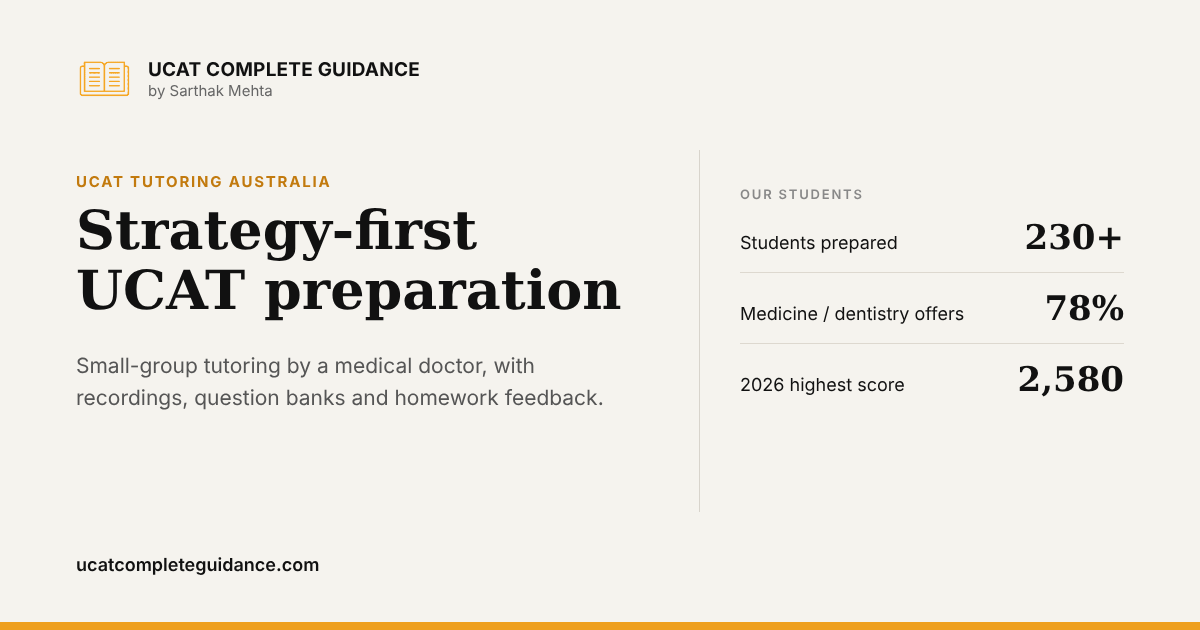
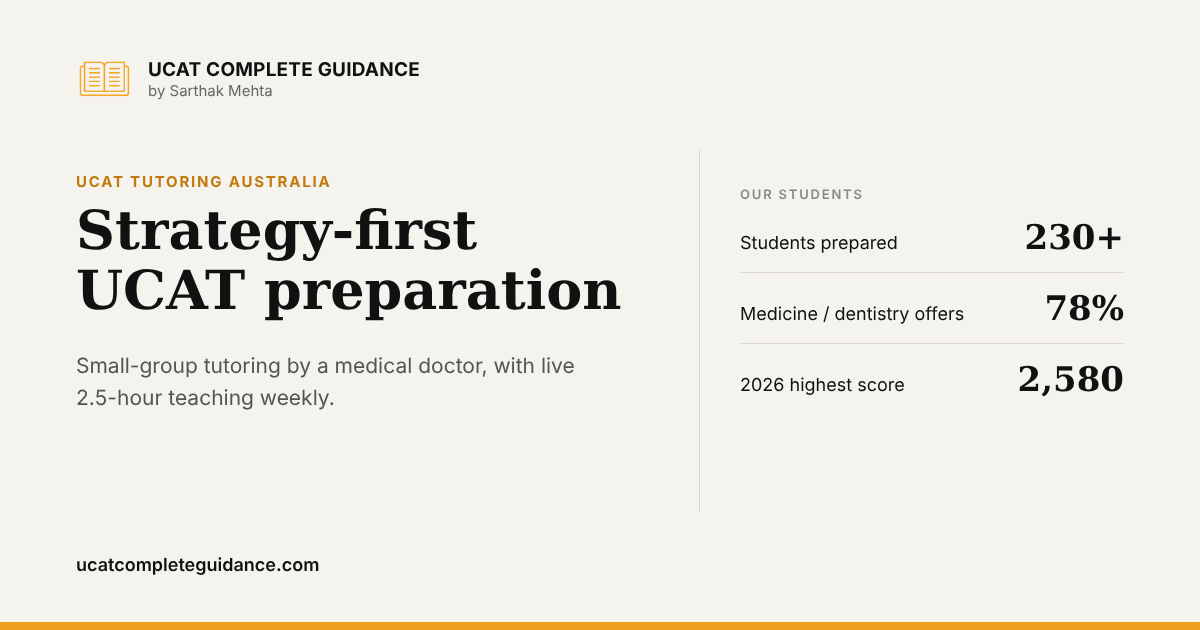
Add files via upload

Changed region(s): [[0.0617, 0.573, 0.4933, 0.6635]]

diff --git a/verbal-reasoning-tips/index.html b/verbal-reasoning-tips/index.html
@@ -3,14 +3,14 @@
 <head>
 <meta charset="UTF-8">
 <meta name="viewport" content="width=device-width, initial-scale=1.0">
-<title>UCAT Verbal Reasoning Tips: Why Most Students Lose Marks | UCAT Complete Guidance</title>
+<title>UCAT Verbal Reasoning Tips: Top 3 Traps to Fix</title>
 <link rel="canonical" href="https://ucatcompleteguidance.com/verbal-reasoning-tips/">
 <meta name="robots" content="index, follow, max-snippet:-1, max-image-preview:large">
 <meta property="og:type" content="article">
 <meta property="og:site_name" content="UCAT Complete Guidance">
 <meta property="og:locale" content="en_AU">
-<meta property="og:title" content="UCAT Verbal Reasoning Tips: Why Most Students Lose Marks | UCAT Complete Guidance">
-<meta property="og:description" content="You&#x27;ve done the practice. You know the format. VR is still your lowest score. Here&#x27;s the part most resources don&#x27;t cover.">
+<meta property="og:title" content="UCAT Verbal Reasoning Tips: Top 3 Traps to Fix">
+<meta property="og:description" content="The three Verbal Reasoning traps that cost the most marks in the 2026 UCAT, from 40+ students who sat it, and how to fix each one.">
 <meta property="og:url" content="https://ucatcompleteguidance.com/verbal-reasoning-tips/">
 <meta property="og:image" content="https://ucatcompleteguidance.com/og/verbal-reasoning-tips.png">
 <meta property="og:image:secure_url" content="https://ucatcompleteguidance.com/og/verbal-reasoning-tips.png">
@@ -28,11 +28,11 @@
 <link rel="icon" type="image/png" sizes="192x192" href="/icon-192.png">
 <link rel="apple-touch-icon" href="/apple-touch-icon.png">
 <link rel="manifest" href="/site.webmanifest">
-<meta name="twitter:title" content="UCAT Verbal Reasoning Tips: Why Most Students Lose Marks | UCAT Complete Guidance">
-<meta name="twitter:description" content="You&#x27;ve done the practice. You know the format. VR is still your lowest score. Here&#x27;s the part most resources don&#x27;t cover.">
+<meta name="twitter:title" content="UCAT Verbal Reasoning Tips: Top 3 Traps to Fix">
+<meta name="twitter:description" content="The three Verbal Reasoning traps that cost the most marks in the 2026 UCAT, from 40+ students who sat it, and how to fix each one.">
 <link rel="alternate" type="text/plain" title="LLM summary" href="/llms.txt">
 
-<meta name="description" content="You&#x27;ve done the practice. You know the format. VR is still your lowest score. Here&#x27;s the part most resources don&#x27;t cover.">
+<meta name="description" content="The three Verbal Reasoning traps that cost the most marks in the 2026 UCAT, from 40+ students who sat it, and how to fix each one.">
 <meta name="keywords" content="UCAT tutoring Australia, UCAT preparation, UCAT strategy, UCAT course, medicine admissions Australia">
 <link rel="preconnect" href="https://fonts.googleapis.com">
 <link rel="preconnect" href="https://fonts.gstatic.com" crossorigin>
@@ -1684,7 +1684,7 @@ body.subpage-active:has(.article-panel.active) .diag-float { display: block; }
   {
    "@type": "Article",
    "headline": "UCAT Verbal Reasoning Tips: Why Most Students Lose Marks",
-   "description": "You've done the practice. You know the format. VR is still your lowest score. Here's the part most resources don't cover.",
+   "description": "The three Verbal Reasoning traps that cost the most marks in the 2026 UCAT, from 40+ students who sat it, and how to fix each one.",
    "url": "https://ucatcompleteguidance.com/verbal-reasoning-tips/",
    "mainEntityOfPage": "https://ucatcompleteguidance.com/verbal-reasoning-tips/",
    "inLanguage": "en-AU",

diff --git a/ucat-calculator/index.html b/ucat-calculator/index.html
@@ -3,14 +3,14 @@
 <head>
 <meta charset="UTF-8">
 <meta name="viewport" content="width=device-width, initial-scale=1.0">
-<title>UCAT Score Calculator 2026: Find Your Percentile Instantly | UCAT Complete Guidance</title>
+<title>UCAT Score Calculator 2026: Find Your Percentile</title>
 <link rel="canonical" href="https://ucatcompleteguidance.com/ucat-calculator/">
 <meta name="robots" content="index, follow, max-snippet:-1, max-image-preview:large">
 <meta property="og:type" content="article">
 <meta property="og:site_name" content="UCAT Complete Guidance">
 <meta property="og:locale" content="en_AU">
-<meta property="og:title" content="UCAT Score Calculator 2026: Find Your Percentile Instantly | UCAT Complete Guidance">
-<meta property="og:description" content="Enter your total UCAT score to see your exact percentile, which universities are within reach by state, and what the 2025 cutoffs looked like.">
+<meta property="og:title" content="UCAT Score Calculator 2026: Find Your Percentile">
+<meta property="og:description" content="Enter your total UCAT score to see your percentile and which Australian medical schools are within reach, state by state.">
 <meta property="og:url" content="https://ucatcompleteguidance.com/ucat-calculator/">
 <meta property="og:image" content="https://ucatcompleteguidance.com/og/ucat-calculator.png">
 <meta property="og:image:secure_url" content="https://ucatcompleteguidance.com/og/ucat-calculator.png">
@@ -28,11 +28,11 @@
 <link rel="icon" type="image/png" sizes="192x192" href="/icon-192.png">
 <link rel="apple-touch-icon" href="/apple-touch-icon.png">
 <link rel="manifest" href="/site.webmanifest">
-<meta name="twitter:title" content="UCAT Score Calculator 2026: Find Your Percentile Instantly | UCAT Complete Guidance">
-<meta name="twitter:description" content="Enter your total UCAT score to see your exact percentile, which universities are within reach by state, and what the 2025 cutoffs looked like.">
+<meta name="twitter:title" content="UCAT Score Calculator 2026: Find Your Percentile">
+<meta name="twitter:description" content="Enter your total UCAT score to see your percentile and which Australian medical schools are within reach, state by state.">
 <link rel="alternate" type="text/plain" title="LLM summary" href="/llms.txt">
 
-<meta name="description" content="Enter your total UCAT score to see your exact percentile, which universities are within reach by state, and what the 2025 cutoffs looked like.">
+<meta name="description" content="Enter your total UCAT score to see your percentile and which Australian medical schools are within reach, state by state.">
 <meta name="keywords" content="UCAT tutoring Australia, UCAT preparation, UCAT strategy, UCAT course, medicine admissions Australia">
 <link rel="preconnect" href="https://fonts.googleapis.com">
 <link rel="preconnect" href="https://fonts.gstatic.com" crossorigin>
@@ -1684,7 +1684,7 @@ body.subpage-active:has(.article-panel.active) .diag-float { display: block; }
   {
    "@type": "Article",
    "headline": "UCAT Score Calculator 2026: Find Your Percentile Instantly",
-   "description": "Enter your total UCAT score to see your exact percentile, which universities are within reach by state, and what the 2025 cutoffs looked like.",
+   "description": "Enter your total UCAT score to see your percentile and which Australian medical schools are within reach, state by state.",
    "url": "https://ucatcompleteguidance.com/ucat-calculator/",
    "mainEntityOfPage": "https://ucatcompleteguidance.com/ucat-calculator/",
    "inLanguage": "en-AU",

diff --git a/what-is-the-ucat/index.html b/what-is-the-ucat/index.html
@@ -3,14 +3,14 @@
 <head>
 <meta charset="UTF-8">
 <meta name="viewport" content="width=device-width, initial-scale=1.0">
-<title>What Is the UCAT ANZ? | UCAT Complete Guidance</title>
+<title>What Is the UCAT ANZ? Sections, Scoring and Timing</title>
 <link rel="canonical" href="https://ucatcompleteguidance.com/what-is-the-ucat/">
 <meta name="robots" content="index, follow, max-snippet:-1, max-image-preview:large">
 <meta property="og:type" content="article">
 <meta property="og:site_name" content="UCAT Complete Guidance">
 <meta property="og:locale" content="en_AU">
-<meta property="og:title" content="What Is the UCAT ANZ? | UCAT Complete Guidance">
-<meta property="og:description" content="The UCAT is the main entry test for medicine and dentistry in Australia and New Zealand. Sections, scoring, 2026 exam patterns, and what to prioritise in prep.">
+<meta property="og:title" content="What Is the UCAT ANZ? Sections, Scoring and Timing">
+<meta property="og:description" content="The UCAT ANZ explained: the four sections, timing, scoring, 2026 exam patterns and what to prioritise in your preparation.">
 <meta property="og:url" content="https://ucatcompleteguidance.com/what-is-the-ucat/">
 <meta property="og:image" content="https://ucatcompleteguidance.com/og/what-is-the-ucat.png">
 <meta property="og:image:secure_url" content="https://ucatcompleteguidance.com/og/what-is-the-ucat.png">
@@ -28,11 +28,11 @@
 <link rel="icon" type="image/png" sizes="192x192" href="/icon-192.png">
 <link rel="apple-touch-icon" href="/apple-touch-icon.png">
 <link rel="manifest" href="/site.webmanifest">
-<meta name="twitter:title" content="What Is the UCAT ANZ? | UCAT Complete Guidance">
-<meta name="twitter:description" content="The UCAT is the main entry test for medicine and dentistry in Australia and New Zealand. Sections, scoring, 2026 exam patterns, and what to prioritise in prep.">
+<meta name="twitter:title" content="What Is the UCAT ANZ? Sections, Scoring and Timing">
+<meta name="twitter:description" content="The UCAT ANZ explained: the four sections, timing, scoring, 2026 exam patterns and what to prioritise in your preparation.">
 <link rel="alternate" type="text/plain" title="LLM summary" href="/llms.txt">
 
-<meta name="description" content="The UCAT is the main entry test for medicine and dentistry in Australia and New Zealand. Sections, scoring, 2026 exam patterns, and what to prioritise in prep.">
+<meta name="description" content="The UCAT ANZ explained: the four sections, timing, scoring, 2026 exam patterns and what to prioritise in your preparation.">
 <meta name="keywords" content="UCAT tutoring Australia, UCAT preparation, UCAT strategy, UCAT course, medicine admissions Australia">
 <link rel="preconnect" href="https://fonts.googleapis.com">
 <link rel="preconnect" href="https://fonts.gstatic.com" crossorigin>
@@ -1684,7 +1684,7 @@ body.subpage-active:has(.article-panel.active) .diag-float { display: block; }
   {
    "@type": "Article",
    "headline": "What Is the UCAT ANZ?",
-   "description": "The UCAT is the main entry test for medicine and dentistry in Australia and New Zealand. Sections, scoring, 2026 exam patterns, and what to prioritise in prep.",
+   "description": "The UCAT ANZ explained: the four sections, timing, scoring, 2026 exam patterns and what to prioritise in your preparation.",
    "url": "https://ucatcompleteguidance.com/what-is-the-ucat/",
    "mainEntityOfPage": "https://ucatcompleteguidance.com/what-is-the-ucat/",
    "inLanguage": "en-AU",

diff --git a/ucat-score-requirements/index.html b/ucat-score-requirements/index.html
@@ -3,14 +3,14 @@
 <head>
 <meta charset="UTF-8">
 <meta name="viewport" content="width=device-width, initial-scale=1.0">
-<title>What UCAT Score Will Get You Into Med School? | UCAT Complete Guidance</title>
+<title>UCAT Score Requirements by University (2026)</title>
 <link rel="canonical" href="https://ucatcompleteguidance.com/ucat-score-requirements/">
 <meta name="robots" content="index, follow, max-snippet:-1, max-image-preview:large">
 <meta property="og:type" content="article">
 <meta property="og:site_name" content="UCAT Complete Guidance">
 <meta property="og:locale" content="en_AU">
-<meta property="og:title" content="What UCAT Score Will Get You Into Med School? | UCAT Complete Guidance">
-<meta property="og:description" content="There&#x27;s no single answer — it depends on your state, your ATAR, and which universities you&#x27;re targeting.">
+<meta property="og:title" content="UCAT Score Requirements by University (2026)">
+<meta property="og:description" content="UCAT cut-offs for every Australian medical school, state by state, in-state and interstate, and how each weighs UCAT, ATAR and interview.">
 <meta property="og:url" content="https://ucatcompleteguidance.com/ucat-score-requirements/">
 <meta property="og:image" content="https://ucatcompleteguidance.com/og/ucat-score-requirements.png">
 <meta property="og:image:secure_url" content="https://ucatcompleteguidance.com/og/ucat-score-requirements.png">
@@ -28,11 +28,11 @@
 <link rel="icon" type="image/png" sizes="192x192" href="/icon-192.png">
 <link rel="apple-touch-icon" href="/apple-touch-icon.png">
 <link rel="manifest" href="/site.webmanifest">
-<meta name="twitter:title" content="What UCAT Score Will Get You Into Med School? | UCAT Complete Guidance">
-<meta name="twitter:description" content="There&#x27;s no single answer — it depends on your state, your ATAR, and which universities you&#x27;re targeting.">
+<meta name="twitter:title" content="UCAT Score Requirements by University (2026)">
+<meta name="twitter:description" content="UCAT cut-offs for every Australian medical school, state by state, in-state and interstate, and how each weighs UCAT, ATAR and interview.">
 <link rel="alternate" type="text/plain" title="LLM summary" href="/llms.txt">
 
-<meta name="description" content="There&#x27;s no single answer — it depends on your state, your ATAR, and which universities you&#x27;re targeting.">
+<meta name="description" content="UCAT cut-offs for every Australian medical school, state by state, in-state and interstate, and how each weighs UCAT, ATAR and interview.">
 <meta name="keywords" content="UCAT tutoring Australia, UCAT preparation, UCAT strategy, UCAT course, medicine admissions Australia">
 <link rel="preconnect" href="https://fonts.googleapis.com">
 <link rel="preconnect" href="https://fonts.gstatic.com" crossorigin>
@@ -1684,7 +1684,7 @@ body.subpage-active:has(.article-panel.active) .diag-float { display: block; }
   {
    "@type": "Article",
    "headline": "What UCAT Score Will Get You Into Med School?",
-   "description": "There's no single answer — it depends on your state, your ATAR, and which universities you're targeting.",
+   "description": "UCAT cut-offs for every Australian medical school, state by state, in-state and interstate, and how each weighs UCAT, ATAR and interview.",
    "url": "https://ucatcompleteguidance.com/ucat-score-requirements/",
    "mainEntityOfPage": "https://ucatcompleteguidance.com/ucat-score-requirements/",
    "inLanguage": "en-AU",

diff --git a/ucat-percentiles/index.html b/ucat-percentiles/index.html
@@ -3,14 +3,14 @@
 <head>
 <meta charset="UTF-8">
 <meta name="viewport" content="width=device-width, initial-scale=1.0">
-<title>UCAT Percentiles 2026: Where Does Your Score Rank? | UCAT Complete Guidance</title>
+<title>UCAT Percentiles 2026: Where Does Your Score Rank?</title>
 <link rel="canonical" href="https://ucatcompleteguidance.com/ucat-percentiles/">
 <meta name="robots" content="index, follow, max-snippet:-1, max-image-preview:large">
 <meta property="og:type" content="article">
 <meta property="og:site_name" content="UCAT Complete Guidance">
 <meta property="og:locale" content="en_AU">
-<meta property="og:title" content="UCAT Percentiles 2026: Where Does Your Score Rank? | UCAT Complete Guidance">
-<meta property="og:description" content="The number on your UCAT result means nothing without context. Here&#x27;s exactly where every score sits in the 2026 cohort.">
+<meta property="og:title" content="UCAT Percentiles 2026: Where Does Your Score Rank?">
+<meta property="og:description" content="See exactly where every UCAT ANZ score sits in the 2026 cohort, decile by decile, with the mean total and SJT scores.">
 <meta property="og:url" content="https://ucatcompleteguidance.com/ucat-percentiles/">
 <meta property="og:image" content="https://ucatcompleteguidance.com/og/ucat-percentiles.png">
 <meta property="og:image:secure_url" content="https://ucatcompleteguidance.com/og/ucat-percentiles.png">
@@ -28,11 +28,11 @@
 <link rel="icon" type="image/png" sizes="192x192" href="/icon-192.png">
 <link rel="apple-touch-icon" href="/apple-touch-icon.png">
 <link rel="manifest" href="/site.webmanifest">
-<meta name="twitter:title" content="UCAT Percentiles 2026: Where Does Your Score Rank? | UCAT Complete Guidance">
-<meta name="twitter:description" content="The number on your UCAT result means nothing without context. Here&#x27;s exactly where every score sits in the 2026 cohort.">
+<meta name="twitter:title" content="UCAT Percentiles 2026: Where Does Your Score Rank?">
+<meta name="twitter:description" content="See exactly where every UCAT ANZ score sits in the 2026 cohort, decile by decile, with the mean total and SJT scores.">
 <link rel="alternate" type="text/plain" title="LLM summary" href="/llms.txt">
 
-<meta name="description" content="The number on your UCAT result means nothing without context. Here&#x27;s exactly where every score sits in the 2026 cohort.">
+<meta name="description" content="See exactly where every UCAT ANZ score sits in the 2026 cohort, decile by decile, with the mean total and SJT scores.">
 <meta name="keywords" content="UCAT tutoring Australia, UCAT preparation, UCAT strategy, UCAT course, medicine admissions Australia">
 <link rel="preconnect" href="https://fonts.googleapis.com">
 <link rel="preconnect" href="https://fonts.gstatic.com" crossorigin>
@@ -1684,7 +1684,7 @@ body.subpage-active:has(.article-panel.active) .diag-float { display: block; }
   {
    "@type": "Article",
    "headline": "UCAT Percentiles 2026: Where Does Your Score Rank?",
-   "description": "The number on your UCAT result means nothing without context. Here's exactly where every score sits in the 2026 cohort.",
+   "description": "See exactly where every UCAT ANZ score sits in the 2026 cohort, decile by decile, with the mean total and SJT scores.",
    "url": "https://ucatcompleteguidance.com/ucat-percentiles/",
    "mainEntityOfPage": "https://ucatcompleteguidance.com/ucat-percentiles/",
    "inLanguage": "en-AU",

diff --git a/index.html b/index.html
@@ -3,14 +3,14 @@
 <head>
 <meta charset="UTF-8">
 <meta name="viewport" content="width=device-width, initial-scale=1.0">
-<title>UCAT Tutoring Australia | Strategy-First Preparation | UCAT Complete Guidance</title>
+<title>UCAT Tutoring Australia | UCAT Complete Guidance</title>
 <link rel="canonical" href="https://ucatcompleteguidance.com/">
 <meta name="robots" content="index, follow, max-snippet:-1, max-image-preview:large">
 <meta property="og:type" content="website">
 <meta property="og:site_name" content="UCAT Complete Guidance">
 <meta property="og:locale" content="en_AU">
-<meta property="og:title" content="UCAT Tutoring Australia | Strategy-First Preparation | UCAT Complete Guidance">
-<meta property="og:description" content="UCAT Complete Guidance by Sarthak Mehta — strategy-first UCAT tutoring with 230+ students prepared across Australia. 2025 cohort median: 2,360 (93rd percentile). Book your free diagnostic consultation.">
+<meta property="og:title" content="UCAT Tutoring Australia | UCAT Complete Guidance">
+<meta property="og:description" content="Strategy-first UCAT tutoring in Australia by a medical doctor. 230+ students prepared, with live 2.5-hour classes every week. Book a free consultation.">
 <meta property="og:url" content="https://ucatcompleteguidance.com/">
 <meta property="og:image" content="https://ucatcompleteguidance.com/og/home.png">
 <meta property="og:image:secure_url" content="https://ucatcompleteguidance.com/og/home.png">
@@ -28,11 +28,11 @@
 <link rel="icon" type="image/png" sizes="192x192" href="/icon-192.png">
 <link rel="apple-touch-icon" href="/apple-touch-icon.png">
 <link rel="manifest" href="/site.webmanifest">
-<meta name="twitter:title" content="UCAT Tutoring Australia | Strategy-First Preparation | UCAT Complete Guidance">
-<meta name="twitter:description" content="UCAT Complete Guidance by Sarthak Mehta — strategy-first UCAT tutoring with 230+ students prepared across Australia. 2025 cohort median: 2,360 (93rd percentile). Book your free diagnostic consultation.">
+<meta name="twitter:title" content="UCAT Tutoring Australia | UCAT Complete Guidance">
+<meta name="twitter:description" content="Strategy-first UCAT tutoring in Australia by a medical doctor. 230+ students prepared, with live 2.5-hour classes every week. Book a free consultation.">
 <link rel="alternate" type="text/plain" title="LLM summary" href="/llms.txt">
 
-<meta name="description" content="UCAT Complete Guidance by Sarthak Mehta — strategy-first UCAT tutoring with 230+ students prepared across Australia. 2025 cohort median: 2,360 (93rd percentile). Book your free diagnostic consultation.">
+<meta name="description" content="Strategy-first UCAT tutoring in Australia by a medical doctor. 230+ students prepared, with live 2.5-hour classes every week. Book a free consultation.">
 <meta name="keywords" content="UCAT tutoring Australia, UCAT preparation, UCAT strategy, UCAT course, medicine admissions Australia">
 <link rel="preconnect" href="https://fonts.googleapis.com">
 <link rel="preconnect" href="https://fonts.gstatic.com" crossorigin>

diff --git a/diagnostic-test/index.html b/diagnostic-test/index.html
@@ -3,7 +3,7 @@
 <head>
 <meta charset="UTF-8">
 <meta name="viewport" content="width=device-width, initial-scale=1.0">
-<title>UCAT Diagnostic — UCAT Complete Guidance</title>
+<title>Free UCAT Diagnostic Test | UCAT Complete Guidance</title>
 <link href="https://fonts.googleapis.com/css2?family=Outfit:wght@300;400;500;600;700;800&family=Lora:ital,wght@0,500;0,600;0,700;1,500;1,600;1,700&display=swap" rel="stylesheet">
 <style>
 *,*::before,*::after{box-sizing:border-box;margin:0;padding:0}
@@ -164,6 +164,8 @@ nav{position:fixed;top:3px;left:0;right:0;z-index:200;background:rgba(13,13,13,0
 body{-webkit-user-select:none;-moz-user-select:none;user-select:none;-webkit-touch-callout:none}
 input,textarea{-webkit-user-select:text;user-select:text}
 </style>
+<meta name="description" content="Take a free UCAT diagnostic test across Verbal Reasoning, Decision Making, Quantitative Reasoning and SJT, and see where you stand.">
+<link rel="canonical" href="https://ucatcompleteguidance.com/diagnostic-test/">
 <link rel="icon" href="/favicon.ico" sizes="any">
 <link rel="icon" type="image/png" sizes="48x48" href="/favicon-48.png">
 <link rel="apple-touch-icon" href="/apple-touch-icon.png">
@@ -172,7 +174,7 @@ input,textarea{-webkit-user-select:text;user-select:text}
 <meta property="og:site_name" content="UCAT Complete Guidance">
 <meta property="og:locale" content="en_AU">
 <meta property="og:title" content="Free UCAT Diagnostic Test | UCAT Complete Guidance">
-<meta property="og:description" content="Take a free UCAT diagnostic test and see where you stand across Verbal Reasoning, Decision Making, Quantitative Reasoning and Situational Judgement.">
+<meta property="og:description" content="Take a free UCAT diagnostic test across Verbal Reasoning, Decision Making, Quantitative Reasoning and SJT, and see where you stand.">
 <meta property="og:url" content="https://ucatcompleteguidance.com/diagnostic-test/">
 <meta property="og:image" content="https://ucatcompleteguidance.com/og/home.png">
 <meta property="og:image:secure_url" content="https://ucatcompleteguidance.com/og/home.png">
@@ -191,9 +193,9 @@ input,textarea{-webkit-user-select:text;user-select:text}
 <link rel="apple-touch-icon" href="/apple-touch-icon.png">
 <link rel="manifest" href="/site.webmanifest">
 <meta name="twitter:title" content="Free UCAT Diagnostic Test | UCAT Complete Guidance">
-<meta name="twitter:description" content="Take a free UCAT diagnostic test and see where you stand across Verbal Reasoning, Decision Making, Quantitative Reasoning and Situational Judgement.">
+<meta name="twitter:description" content="Take a free UCAT diagnostic test across Verbal Reasoning, Decision Making, Quantitative Reasoning and SJT, and see where you stand.">
 <link rel="alternate" type="text/plain" title="LLM summary" href="/llms.txt">
-</head>
+
 <body>
 <div class="prog-bar"><div class="prog-fill" id="progFill"></div></div>
 <nav>
